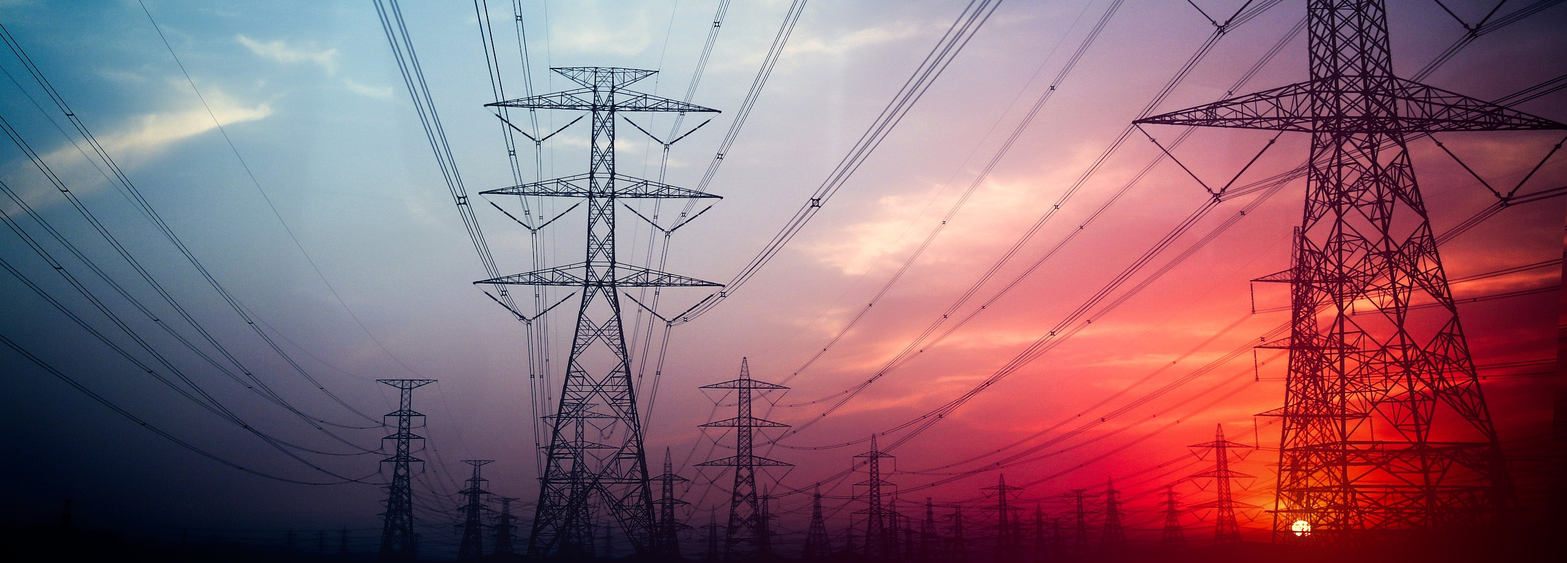
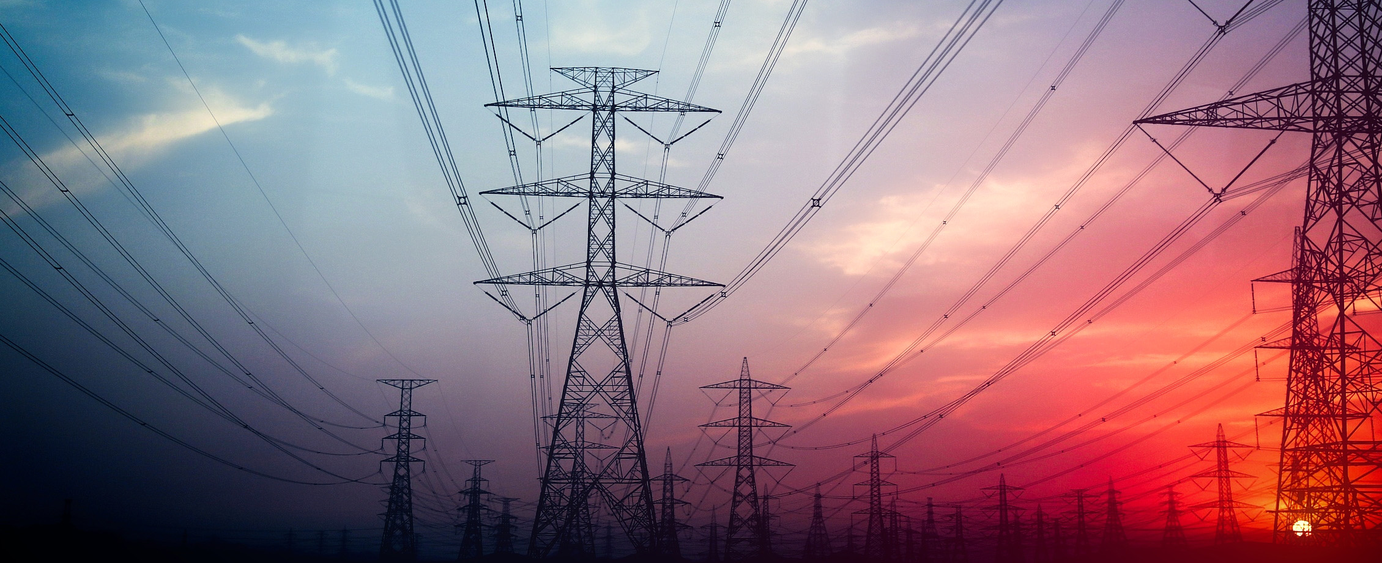
SC1

diff --git a/index.html b/index.html
@@ -41,7 +41,7 @@
 
     <div id="about-us">
         <div id="image-container">
-            <img id="about-us-photo" src="images/homePagePhoto.png" alt="NEPA about page stock photo">
+            <img id="about-us-photo" src="images/homePagePhoto2.png" alt="NEPA about page stock photo">
             <h1 id="about-us-text">
                 Solutions to optimize the safety and 
                 reliability of your electrical systems

diff --git a/innerPages/service1.html b/innerPages/service1.html
@@ -54,7 +54,7 @@
                     </h1>
                 </div>
                 <div class="service-image">
-                    <img src="../images/SCA1.png" style="border-radius: 13px; width:100%;
+                    <img src="../images/Short circuit 3.jpeg" style="border-radius: 13px; width:100%;
                     height:100%;
                     object-fit: cover;
                     overflow: hidden;">
